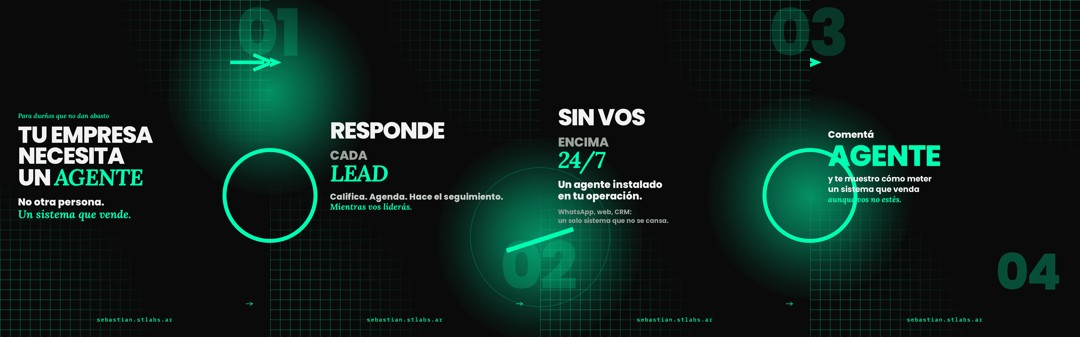
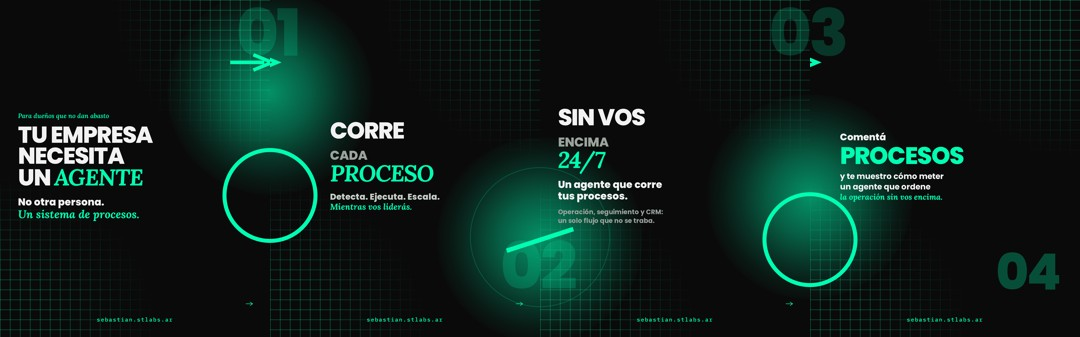
Sync PNGs: procesos + círculo CTA libre

diff --git a/builds/2026-08-16-frases-continuidad/carrusel-standalone.html b/builds/2026-08-16-frases-continuidad/carrusel-standalone.html
@@ -75,6 +75,10 @@ html, body { background:#000; }
 }
 .geo-circle.geo-out { right:-190px; top:58%; transform:translateY(-50%); }
 .geo-circle.geo-in  { left:-190px; top:58%; transform:translateY(-50%); }
+/* Círculo bajo en costura 03↔04: no tapa el CTA */
+.geo-circle.geo-lo {
+  top:auto; bottom:200px; transform:none;
+}
 
 .geo-ring {
   width:560px; height:560px; border-radius:50%;
@@ -103,7 +107,7 @@ html, body { background:#000; }
   display:flex; flex-direction:column; justify-content:center;
 }
 .mid-r { align-items:flex-start; padding-left:168px; }
-.mid-cta { justify-content:center; }
+.mid-cta { justify-content:center; padding-left:48px; }
 
 .kicker {
   font-family:'Lora', Georgia, serif; font-style:italic; font-weight:600;
@@ -140,7 +144,7 @@ html, body { background:#000; }
 }
 .cta-kw {
   font-family:'Poppins', sans-serif; font-weight:800;
-  font-size:118px; line-height:.9; letter-spacing:-.03em;
+  font-size:96px; line-height:.9; letter-spacing:-.03em;
   color:#00FFB2; margin:4px 0 18px;
 }
 .cta-mid {
@@ -148,7 +152,7 @@ html, body { background:#000; }
   font-size:32px; line-height:1.3; color:#F2F2F2; max-width:720px;
 }
 </style></head>
-<body><div class="sheet"><section class="slide" data-id="01"><div class="tex"></div><div class="stain stain-out stain-hi" aria-hidden="true"></div><div class="seam-num seam-out seam-top" aria-hidden="true">01</div><div class="geo geo-circle geo-out" aria-hidden="true"></div><div class="geo geo-arrow geo-arrow-out" aria-hidden="true"><svg viewBox="0 0 200 80" width="200" height="80"><path d="M8 40 H130 M100 12 L168 40 L100 68" fill="none" stroke="#00FFB2" stroke-width="14" stroke-linecap="square" stroke-linejoin="miter"/></svg></div><div class="mid"><p class="kicker">Para dueños que no dan abasto</p><h1 class="display">TU EMPRESA<br>NECESITA<br>UN <span class="ac">AGENTE</span></h1><p class="punch">No otra persona.<br><span class="ac xl">Un sistema que vende.</span></p></div><div class="firma">sebastian.stlabs.ar</div><div class="nav-arrow" aria-hidden="true"><svg viewBox="0 0 40 24" width="34" height="20"><path d="M2 12 H30 M22 4 L34 12 L22 20" fill="none" stroke="#00FFB2" stroke-width="2.4" stroke-linecap="round" stroke-linejoin="round"/></svg></div></section><section class="slide" data-id="02"><div class="tex"></div><div class="stain stain-in stain-hi" aria-hidden="true"></div><div class="stain stain-out stain-lo" aria-hidden="true"></div><div class="seam-num seam-in seam-top" aria-hidden="true">01</div>
-<div class="seam-num seam-out seam-bot" aria-hidden="true">02</div><div class="geo geo-circle geo-in" aria-hidden="true"></div><div class="geo geo-arrow geo-arrow-in" aria-hidden="true"><svg viewBox="0 0 200 80" width="200" height="80"><path d="M-40 40 H90 M60 12 L128 40 L60 68" fill="none" stroke="#00FFB2" stroke-width="14" stroke-linecap="square" stroke-linejoin="miter"/></svg></div><div class="geo geo-ring geo-out-mid" aria-hidden="true"></div><div class="geo geo-bar geo-bar-out" aria-hidden="true"></div><div class="mid mid-r"><h1 class="display">RESPONDE<br><span class="sm">CADA</span><br><span class="ac">LEAD</span></h1><p class="punch soft">Califica. Agenda. Hace el seguimiento.<br><span class="ac">Mientras vos liderás.</span></p></div><div class="firma">sebastian.stlabs.ar</div><div class="nav-arrow" aria-hidden="true"><svg viewBox="0 0 40 24" width="34" height="20"><path d="M2 12 H30 M22 4 L34 12 L22 20" fill="none" stroke="#00FFB2" stroke-width="2.4" stroke-linecap="round" stroke-linejoin="round"/></svg></div></section><section class="slide" data-id="03"><div class="tex"></div><div class="stain stain-in stain-lo" aria-hidden="true"></div><div class="stain stain-out stain-mid" aria-hidden="true"></div><div class="seam-num seam-in seam-bot" aria-hidden="true">02</div>
-<div class="seam-num seam-out seam-top" aria-hidden="true">03</div><div class="geo geo-ring geo-in-mid" aria-hidden="true"></div><div class="geo geo-bar geo-bar-in" aria-hidden="true"></div><div class="geo geo-circle geo-out" aria-hidden="true"></div><div class="mid"><h1 class="display">SIN VOS<br><span class="sm">ENCIMA</span><br><span class="ac">24/7</span></h1><p class="punch">Un agente instalado<br>en tu operación.</p><p class="sub">WhatsApp, web, CRM:<br>un solo sistema que no se cansa.</p></div><div class="firma">sebastian.stlabs.ar</div><div class="nav-arrow" aria-hidden="true"><svg viewBox="0 0 40 24" width="34" height="20"><path d="M2 12 H30 M22 4 L34 12 L22 20" fill="none" stroke="#00FFB2" stroke-width="2.4" stroke-linecap="round" stroke-linejoin="round"/></svg></div></section><section class="slide" data-id="04"><div class="tex"></div><div class="stain stain-in stain-mid" aria-hidden="true"></div><div class="seam-num seam-in seam-top" aria-hidden="true">03</div>
-<div class="seam-num seam-solo seam-bot" aria-hidden="true">04</div><div class="geo geo-circle geo-in" aria-hidden="true"></div><div class="geo geo-arrow geo-arrow-in" aria-hidden="true"><svg viewBox="0 0 200 80" width="200" height="80"><path d="M-40 40 H90 M60 12 L128 40 L60 68" fill="none" stroke="#00FFB2" stroke-width="14" stroke-linecap="square" stroke-linejoin="miter"/></svg></div><div class="mid mid-cta"><p class="cta-pre">Comentá</p><h1 class="cta-kw">AGENTE</h1><p class="cta-mid">y te muestro cómo meter<br>un sistema que venda<br><span class="ac">aunque vos no estés.</span></p></div><div class="firma">sebastian.stlabs.ar</div></section></div></body></html>
+<body><div class="sheet"><section class="slide" data-id="01"><div class="tex"></div><div class="stain stain-out stain-hi" aria-hidden="true"></div><div class="seam-num seam-out seam-top" aria-hidden="true">01</div><div class="geo geo-circle geo-out" aria-hidden="true"></div><div class="geo geo-arrow geo-arrow-out" aria-hidden="true"><svg viewBox="0 0 200 80" width="200" height="80"><path d="M8 40 H130 M100 12 L168 40 L100 68" fill="none" stroke="#00FFB2" stroke-width="14" stroke-linecap="square" stroke-linejoin="miter"/></svg></div><div class="mid"><p class="kicker">Para dueños que no dan abasto</p><h1 class="display">TU EMPRESA<br>NECESITA<br>UN <span class="ac">AGENTE</span></h1><p class="punch">No otra persona.<br><span class="ac xl">Un sistema de procesos.</span></p></div><div class="firma">sebastian.stlabs.ar</div><div class="nav-arrow" aria-hidden="true"><svg viewBox="0 0 40 24" width="34" height="20"><path d="M2 12 H30 M22 4 L34 12 L22 20" fill="none" stroke="#00FFB2" stroke-width="2.4" stroke-linecap="round" stroke-linejoin="round"/></svg></div></section><section class="slide" data-id="02"><div class="tex"></div><div class="stain stain-in stain-hi" aria-hidden="true"></div><div class="stain stain-out stain-lo" aria-hidden="true"></div><div class="seam-num seam-in seam-top" aria-hidden="true">01</div>
+<div class="seam-num seam-out seam-bot" aria-hidden="true">02</div><div class="geo geo-circle geo-in" aria-hidden="true"></div><div class="geo geo-arrow geo-arrow-in" aria-hidden="true"><svg viewBox="0 0 200 80" width="200" height="80"><path d="M-40 40 H90 M60 12 L128 40 L60 68" fill="none" stroke="#00FFB2" stroke-width="14" stroke-linecap="square" stroke-linejoin="miter"/></svg></div><div class="geo geo-ring geo-out-mid" aria-hidden="true"></div><div class="geo geo-bar geo-bar-out" aria-hidden="true"></div><div class="mid mid-r"><h1 class="display">CORRE<br><span class="sm">CADA</span><br><span class="ac">PROCESO</span></h1><p class="punch soft">Detecta. Ejecuta. Escala.<br><span class="ac">Mientras vos liderás.</span></p></div><div class="firma">sebastian.stlabs.ar</div><div class="nav-arrow" aria-hidden="true"><svg viewBox="0 0 40 24" width="34" height="20"><path d="M2 12 H30 M22 4 L34 12 L22 20" fill="none" stroke="#00FFB2" stroke-width="2.4" stroke-linecap="round" stroke-linejoin="round"/></svg></div></section><section class="slide" data-id="03"><div class="tex"></div><div class="stain stain-in stain-lo" aria-hidden="true"></div><div class="stain stain-out stain-mid" aria-hidden="true"></div><div class="seam-num seam-in seam-bot" aria-hidden="true">02</div>
+<div class="seam-num seam-out seam-top" aria-hidden="true">03</div><div class="geo geo-ring geo-in-mid" aria-hidden="true"></div><div class="geo geo-bar geo-bar-in" aria-hidden="true"></div><div class="geo geo-circle geo-out geo-lo" aria-hidden="true"></div><div class="mid"><h1 class="display">SIN VOS<br><span class="sm">ENCIMA</span><br><span class="ac">24/7</span></h1><p class="punch">Un agente que corre<br>tus procesos.</p><p class="sub">Operación, seguimiento y CRM:<br>un solo flujo que no se traba.</p></div><div class="firma">sebastian.stlabs.ar</div><div class="nav-arrow" aria-hidden="true"><svg viewBox="0 0 40 24" width="34" height="20"><path d="M2 12 H30 M22 4 L34 12 L22 20" fill="none" stroke="#00FFB2" stroke-width="2.4" stroke-linecap="round" stroke-linejoin="round"/></svg></div></section><section class="slide" data-id="04"><div class="tex"></div><div class="stain stain-in stain-mid" aria-hidden="true"></div><div class="seam-num seam-in seam-top" aria-hidden="true">03</div>
+<div class="seam-num seam-solo seam-bot" aria-hidden="true">04</div><div class="geo geo-circle geo-in geo-lo" aria-hidden="true"></div><div class="geo geo-arrow geo-arrow-in" aria-hidden="true"><svg viewBox="0 0 200 80" width="200" height="80"><path d="M-40 40 H90 M60 12 L128 40 L60 68" fill="none" stroke="#00FFB2" stroke-width="14" stroke-linecap="square" stroke-linejoin="miter"/></svg></div><div class="mid mid-cta"><p class="cta-pre">Comentá</p><h1 class="cta-kw">PROCESOS</h1><p class="cta-mid">y te muestro cómo meter<br>un agente que ordene<br><span class="ac">la operación sin vos encima.</span></p></div><div class="firma">sebastian.stlabs.ar</div></section></div></body></html>

diff --git a/resultados/2026-08-16-frases-continuidad/carrusel-standalone.html b/resultados/2026-08-16-frases-continuidad/carrusel-standalone.html
@@ -75,6 +75,10 @@ html, body { background:#000; }
 }
 .geo-circle.geo-out { right:-190px; top:58%; transform:translateY(-50%); }
 .geo-circle.geo-in  { left:-190px; top:58%; transform:translateY(-50%); }
+/* Círculo bajo en costura 03↔04: no tapa el CTA */
+.geo-circle.geo-lo {
+  top:auto; bottom:200px; transform:none;
+}
 
 .geo-ring {
   width:560px; height:560px; border-radius:50%;
@@ -103,7 +107,7 @@ html, body { background:#000; }
   display:flex; flex-direction:column; justify-content:center;
 }
 .mid-r { align-items:flex-start; padding-left:168px; }
-.mid-cta { justify-content:center; }
+.mid-cta { justify-content:center; padding-left:48px; }
 
 .kicker {
   font-family:'Lora', Georgia, serif; font-style:italic; font-weight:600;
@@ -140,7 +144,7 @@ html, body { background:#000; }
 }
 .cta-kw {
   font-family:'Poppins', sans-serif; font-weight:800;
-  font-size:118px; line-height:.9; letter-spacing:-.03em;
+  font-size:96px; line-height:.9; letter-spacing:-.03em;
   color:#00FFB2; margin:4px 0 18px;
 }
 .cta-mid {
@@ -148,7 +152,7 @@ html, body { background:#000; }
   font-size:32px; line-height:1.3; color:#F2F2F2; max-width:720px;
 }
 </style></head>
-<body><div class="sheet"><section class="slide" data-id="01"><div class="tex"></div><div class="stain stain-out stain-hi" aria-hidden="true"></div><div class="seam-num seam-out seam-top" aria-hidden="true">01</div><div class="geo geo-circle geo-out" aria-hidden="true"></div><div class="geo geo-arrow geo-arrow-out" aria-hidden="true"><svg viewBox="0 0 200 80" width="200" height="80"><path d="M8 40 H130 M100 12 L168 40 L100 68" fill="none" stroke="#00FFB2" stroke-width="14" stroke-linecap="square" stroke-linejoin="miter"/></svg></div><div class="mid"><p class="kicker">Para dueños que no dan abasto</p><h1 class="display">TU EMPRESA<br>NECESITA<br>UN <span class="ac">AGENTE</span></h1><p class="punch">No otra persona.<br><span class="ac xl">Un sistema que vende.</span></p></div><div class="firma">sebastian.stlabs.ar</div><div class="nav-arrow" aria-hidden="true"><svg viewBox="0 0 40 24" width="34" height="20"><path d="M2 12 H30 M22 4 L34 12 L22 20" fill="none" stroke="#00FFB2" stroke-width="2.4" stroke-linecap="round" stroke-linejoin="round"/></svg></div></section><section class="slide" data-id="02"><div class="tex"></div><div class="stain stain-in stain-hi" aria-hidden="true"></div><div class="stain stain-out stain-lo" aria-hidden="true"></div><div class="seam-num seam-in seam-top" aria-hidden="true">01</div>
-<div class="seam-num seam-out seam-bot" aria-hidden="true">02</div><div class="geo geo-circle geo-in" aria-hidden="true"></div><div class="geo geo-arrow geo-arrow-in" aria-hidden="true"><svg viewBox="0 0 200 80" width="200" height="80"><path d="M-40 40 H90 M60 12 L128 40 L60 68" fill="none" stroke="#00FFB2" stroke-width="14" stroke-linecap="square" stroke-linejoin="miter"/></svg></div><div class="geo geo-ring geo-out-mid" aria-hidden="true"></div><div class="geo geo-bar geo-bar-out" aria-hidden="true"></div><div class="mid mid-r"><h1 class="display">RESPONDE<br><span class="sm">CADA</span><br><span class="ac">LEAD</span></h1><p class="punch soft">Califica. Agenda. Hace el seguimiento.<br><span class="ac">Mientras vos liderás.</span></p></div><div class="firma">sebastian.stlabs.ar</div><div class="nav-arrow" aria-hidden="true"><svg viewBox="0 0 40 24" width="34" height="20"><path d="M2 12 H30 M22 4 L34 12 L22 20" fill="none" stroke="#00FFB2" stroke-width="2.4" stroke-linecap="round" stroke-linejoin="round"/></svg></div></section><section class="slide" data-id="03"><div class="tex"></div><div class="stain stain-in stain-lo" aria-hidden="true"></div><div class="stain stain-out stain-mid" aria-hidden="true"></div><div class="seam-num seam-in seam-bot" aria-hidden="true">02</div>
-<div class="seam-num seam-out seam-top" aria-hidden="true">03</div><div class="geo geo-ring geo-in-mid" aria-hidden="true"></div><div class="geo geo-bar geo-bar-in" aria-hidden="true"></div><div class="geo geo-circle geo-out" aria-hidden="true"></div><div class="mid"><h1 class="display">SIN VOS<br><span class="sm">ENCIMA</span><br><span class="ac">24/7</span></h1><p class="punch">Un agente instalado<br>en tu operación.</p><p class="sub">WhatsApp, web, CRM:<br>un solo sistema que no se cansa.</p></div><div class="firma">sebastian.stlabs.ar</div><div class="nav-arrow" aria-hidden="true"><svg viewBox="0 0 40 24" width="34" height="20"><path d="M2 12 H30 M22 4 L34 12 L22 20" fill="none" stroke="#00FFB2" stroke-width="2.4" stroke-linecap="round" stroke-linejoin="round"/></svg></div></section><section class="slide" data-id="04"><div class="tex"></div><div class="stain stain-in stain-mid" aria-hidden="true"></div><div class="seam-num seam-in seam-top" aria-hidden="true">03</div>
-<div class="seam-num seam-solo seam-bot" aria-hidden="true">04</div><div class="geo geo-circle geo-in" aria-hidden="true"></div><div class="geo geo-arrow geo-arrow-in" aria-hidden="true"><svg viewBox="0 0 200 80" width="200" height="80"><path d="M-40 40 H90 M60 12 L128 40 L60 68" fill="none" stroke="#00FFB2" stroke-width="14" stroke-linecap="square" stroke-linejoin="miter"/></svg></div><div class="mid mid-cta"><p class="cta-pre">Comentá</p><h1 class="cta-kw">AGENTE</h1><p class="cta-mid">y te muestro cómo meter<br>un sistema que venda<br><span class="ac">aunque vos no estés.</span></p></div><div class="firma">sebastian.stlabs.ar</div></section></div></body></html>
+<body><div class="sheet"><section class="slide" data-id="01"><div class="tex"></div><div class="stain stain-out stain-hi" aria-hidden="true"></div><div class="seam-num seam-out seam-top" aria-hidden="true">01</div><div class="geo geo-circle geo-out" aria-hidden="true"></div><div class="geo geo-arrow geo-arrow-out" aria-hidden="true"><svg viewBox="0 0 200 80" width="200" height="80"><path d="M8 40 H130 M100 12 L168 40 L100 68" fill="none" stroke="#00FFB2" stroke-width="14" stroke-linecap="square" stroke-linejoin="miter"/></svg></div><div class="mid"><p class="kicker">Para dueños que no dan abasto</p><h1 class="display">TU EMPRESA<br>NECESITA<br>UN <span class="ac">AGENTE</span></h1><p class="punch">No otra persona.<br><span class="ac xl">Un sistema de procesos.</span></p></div><div class="firma">sebastian.stlabs.ar</div><div class="nav-arrow" aria-hidden="true"><svg viewBox="0 0 40 24" width="34" height="20"><path d="M2 12 H30 M22 4 L34 12 L22 20" fill="none" stroke="#00FFB2" stroke-width="2.4" stroke-linecap="round" stroke-linejoin="round"/></svg></div></section><section class="slide" data-id="02"><div class="tex"></div><div class="stain stain-in stain-hi" aria-hidden="true"></div><div class="stain stain-out stain-lo" aria-hidden="true"></div><div class="seam-num seam-in seam-top" aria-hidden="true">01</div>
+<div class="seam-num seam-out seam-bot" aria-hidden="true">02</div><div class="geo geo-circle geo-in" aria-hidden="true"></div><div class="geo geo-arrow geo-arrow-in" aria-hidden="true"><svg viewBox="0 0 200 80" width="200" height="80"><path d="M-40 40 H90 M60 12 L128 40 L60 68" fill="none" stroke="#00FFB2" stroke-width="14" stroke-linecap="square" stroke-linejoin="miter"/></svg></div><div class="geo geo-ring geo-out-mid" aria-hidden="true"></div><div class="geo geo-bar geo-bar-out" aria-hidden="true"></div><div class="mid mid-r"><h1 class="display">CORRE<br><span class="sm">CADA</span><br><span class="ac">PROCESO</span></h1><p class="punch soft">Detecta. Ejecuta. Escala.<br><span class="ac">Mientras vos liderás.</span></p></div><div class="firma">sebastian.stlabs.ar</div><div class="nav-arrow" aria-hidden="true"><svg viewBox="0 0 40 24" width="34" height="20"><path d="M2 12 H30 M22 4 L34 12 L22 20" fill="none" stroke="#00FFB2" stroke-width="2.4" stroke-linecap="round" stroke-linejoin="round"/></svg></div></section><section class="slide" data-id="03"><div class="tex"></div><div class="stain stain-in stain-lo" aria-hidden="true"></div><div class="stain stain-out stain-mid" aria-hidden="true"></div><div class="seam-num seam-in seam-bot" aria-hidden="true">02</div>
+<div class="seam-num seam-out seam-top" aria-hidden="true">03</div><div class="geo geo-ring geo-in-mid" aria-hidden="true"></div><div class="geo geo-bar geo-bar-in" aria-hidden="true"></div><div class="geo geo-circle geo-out geo-lo" aria-hidden="true"></div><div class="mid"><h1 class="display">SIN VOS<br><span class="sm">ENCIMA</span><br><span class="ac">24/7</span></h1><p class="punch">Un agente que corre<br>tus procesos.</p><p class="sub">Operación, seguimiento y CRM:<br>un solo flujo que no se traba.</p></div><div class="firma">sebastian.stlabs.ar</div><div class="nav-arrow" aria-hidden="true"><svg viewBox="0 0 40 24" width="34" height="20"><path d="M2 12 H30 M22 4 L34 12 L22 20" fill="none" stroke="#00FFB2" stroke-width="2.4" stroke-linecap="round" stroke-linejoin="round"/></svg></div></section><section class="slide" data-id="04"><div class="tex"></div><div class="stain stain-in stain-mid" aria-hidden="true"></div><div class="seam-num seam-in seam-top" aria-hidden="true">03</div>
+<div class="seam-num seam-solo seam-bot" aria-hidden="true">04</div><div class="geo geo-circle geo-in geo-lo" aria-hidden="true"></div><div class="geo geo-arrow geo-arrow-in" aria-hidden="true"><svg viewBox="0 0 200 80" width="200" height="80"><path d="M-40 40 H90 M60 12 L128 40 L60 68" fill="none" stroke="#00FFB2" stroke-width="14" stroke-linecap="square" stroke-linejoin="miter"/></svg></div><div class="mid mid-cta"><p class="cta-pre">Comentá</p><h1 class="cta-kw">PROCESOS</h1><p class="cta-mid">y te muestro cómo meter<br>un agente que ordene<br><span class="ac">la operación sin vos encima.</span></p></div><div class="firma">sebastian.stlabs.ar</div></section></div></body></html>

diff --git a/resultados/2026-08-16-frases-continuidad/carrusel.html b/resultados/2026-08-16-frases-continuidad/carrusel.html
@@ -75,6 +75,10 @@ html, body { background:#000; }
 }
 .geo-circle.geo-out { right:-190px; top:58%; transform:translateY(-50%); }
 .geo-circle.geo-in  { left:-190px; top:58%; transform:translateY(-50%); }
+/* Círculo bajo en costura 03↔04: no tapa el CTA */
+.geo-circle.geo-lo {
+  top:auto; bottom:200px; transform:none;
+}
 
 .geo-ring {
   width:560px; height:560px; border-radius:50%;
@@ -103,7 +107,7 @@ html, body { background:#000; }
   display:flex; flex-direction:column; justify-content:center;
 }
 .mid-r { align-items:flex-start; padding-left:168px; }
-.mid-cta { justify-content:center; }
+.mid-cta { justify-content:center; padding-left:48px; }
 
 .kicker {
   font-family:'Lora', Georgia, serif; font-style:italic; font-weight:600;
@@ -140,7 +144,7 @@ html, body { background:#000; }
 }
 .cta-kw {
   font-family:'Poppins', sans-serif; font-weight:800;
-  font-size:118px; line-height:.9; letter-spacing:-.03em;
+  font-size:96px; line-height:.9; letter-spacing:-.03em;
   color:#00FFB2; margin:4px 0 18px;
 }
 .cta-mid {
@@ -148,7 +152,7 @@ html, body { background:#000; }
   font-size:32px; line-height:1.3; color:#F2F2F2; max-width:720px;
 }
 </style></head>
-<body><div class="sheet"><section class="slide" data-id="01"><div class="tex"></div><div class="stain stain-out stain-hi" aria-hidden="true"></div><div class="seam-num seam-out seam-top" aria-hidden="true">01</div><div class="geo geo-circle geo-out" aria-hidden="true"></div><div class="geo geo-arrow geo-arrow-out" aria-hidden="true"><svg viewBox="0 0 200 80" width="200" height="80"><path d="M8 40 H130 M100 12 L168 40 L100 68" fill="none" stroke="#00FFB2" stroke-width="14" stroke-linecap="square" stroke-linejoin="miter"/></svg></div><div class="mid"><p class="kicker">Para dueños que no dan abasto</p><h1 class="display">TU EMPRESA<br>NECESITA<br>UN <span class="ac">AGENTE</span></h1><p class="punch">No otra persona.<br><span class="ac xl">Un sistema que vende.</span></p></div><div class="firma">sebastian.stlabs.ar</div><div class="nav-arrow" aria-hidden="true"><svg viewBox="0 0 40 24" width="34" height="20"><path d="M2 12 H30 M22 4 L34 12 L22 20" fill="none" stroke="#00FFB2" stroke-width="2.4" stroke-linecap="round" stroke-linejoin="round"/></svg></div></section><section class="slide" data-id="02"><div class="tex"></div><div class="stain stain-in stain-hi" aria-hidden="true"></div><div class="stain stain-out stain-lo" aria-hidden="true"></div><div class="seam-num seam-in seam-top" aria-hidden="true">01</div>
-<div class="seam-num seam-out seam-bot" aria-hidden="true">02</div><div class="geo geo-circle geo-in" aria-hidden="true"></div><div class="geo geo-arrow geo-arrow-in" aria-hidden="true"><svg viewBox="0 0 200 80" width="200" height="80"><path d="M-40 40 H90 M60 12 L128 40 L60 68" fill="none" stroke="#00FFB2" stroke-width="14" stroke-linecap="square" stroke-linejoin="miter"/></svg></div><div class="geo geo-ring geo-out-mid" aria-hidden="true"></div><div class="geo geo-bar geo-bar-out" aria-hidden="true"></div><div class="mid mid-r"><h1 class="display">RESPONDE<br><span class="sm">CADA</span><br><span class="ac">LEAD</span></h1><p class="punch soft">Califica. Agenda. Hace el seguimiento.<br><span class="ac">Mientras vos liderás.</span></p></div><div class="firma">sebastian.stlabs.ar</div><div class="nav-arrow" aria-hidden="true"><svg viewBox="0 0 40 24" width="34" height="20"><path d="M2 12 H30 M22 4 L34 12 L22 20" fill="none" stroke="#00FFB2" stroke-width="2.4" stroke-linecap="round" stroke-linejoin="round"/></svg></div></section><section class="slide" data-id="03"><div class="tex"></div><div class="stain stain-in stain-lo" aria-hidden="true"></div><div class="stain stain-out stain-mid" aria-hidden="true"></div><div class="seam-num seam-in seam-bot" aria-hidden="true">02</div>
-<div class="seam-num seam-out seam-top" aria-hidden="true">03</div><div class="geo geo-ring geo-in-mid" aria-hidden="true"></div><div class="geo geo-bar geo-bar-in" aria-hidden="true"></div><div class="geo geo-circle geo-out" aria-hidden="true"></div><div class="mid"><h1 class="display">SIN VOS<br><span class="sm">ENCIMA</span><br><span class="ac">24/7</span></h1><p class="punch">Un agente instalado<br>en tu operación.</p><p class="sub">WhatsApp, web, CRM:<br>un solo sistema que no se cansa.</p></div><div class="firma">sebastian.stlabs.ar</div><div class="nav-arrow" aria-hidden="true"><svg viewBox="0 0 40 24" width="34" height="20"><path d="M2 12 H30 M22 4 L34 12 L22 20" fill="none" stroke="#00FFB2" stroke-width="2.4" stroke-linecap="round" stroke-linejoin="round"/></svg></div></section><section class="slide" data-id="04"><div class="tex"></div><div class="stain stain-in stain-mid" aria-hidden="true"></div><div class="seam-num seam-in seam-top" aria-hidden="true">03</div>
-<div class="seam-num seam-solo seam-bot" aria-hidden="true">04</div><div class="geo geo-circle geo-in" aria-hidden="true"></div><div class="geo geo-arrow geo-arrow-in" aria-hidden="true"><svg viewBox="0 0 200 80" width="200" height="80"><path d="M-40 40 H90 M60 12 L128 40 L60 68" fill="none" stroke="#00FFB2" stroke-width="14" stroke-linecap="square" stroke-linejoin="miter"/></svg></div><div class="mid mid-cta"><p class="cta-pre">Comentá</p><h1 class="cta-kw">AGENTE</h1><p class="cta-mid">y te muestro cómo meter<br>un sistema que venda<br><span class="ac">aunque vos no estés.</span></p></div><div class="firma">sebastian.stlabs.ar</div></section></div></body></html>
+<body><div class="sheet"><section class="slide" data-id="01"><div class="tex"></div><div class="stain stain-out stain-hi" aria-hidden="true"></div><div class="seam-num seam-out seam-top" aria-hidden="true">01</div><div class="geo geo-circle geo-out" aria-hidden="true"></div><div class="geo geo-arrow geo-arrow-out" aria-hidden="true"><svg viewBox="0 0 200 80" width="200" height="80"><path d="M8 40 H130 M100 12 L168 40 L100 68" fill="none" stroke="#00FFB2" stroke-width="14" stroke-linecap="square" stroke-linejoin="miter"/></svg></div><div class="mid"><p class="kicker">Para dueños que no dan abasto</p><h1 class="display">TU EMPRESA<br>NECESITA<br>UN <span class="ac">AGENTE</span></h1><p class="punch">No otra persona.<br><span class="ac xl">Un sistema de procesos.</span></p></div><div class="firma">sebastian.stlabs.ar</div><div class="nav-arrow" aria-hidden="true"><svg viewBox="0 0 40 24" width="34" height="20"><path d="M2 12 H30 M22 4 L34 12 L22 20" fill="none" stroke="#00FFB2" stroke-width="2.4" stroke-linecap="round" stroke-linejoin="round"/></svg></div></section><section class="slide" data-id="02"><div class="tex"></div><div class="stain stain-in stain-hi" aria-hidden="true"></div><div class="stain stain-out stain-lo" aria-hidden="true"></div><div class="seam-num seam-in seam-top" aria-hidden="true">01</div>
+<div class="seam-num seam-out seam-bot" aria-hidden="true">02</div><div class="geo geo-circle geo-in" aria-hidden="true"></div><div class="geo geo-arrow geo-arrow-in" aria-hidden="true"><svg viewBox="0 0 200 80" width="200" height="80"><path d="M-40 40 H90 M60 12 L128 40 L60 68" fill="none" stroke="#00FFB2" stroke-width="14" stroke-linecap="square" stroke-linejoin="miter"/></svg></div><div class="geo geo-ring geo-out-mid" aria-hidden="true"></div><div class="geo geo-bar geo-bar-out" aria-hidden="true"></div><div class="mid mid-r"><h1 class="display">CORRE<br><span class="sm">CADA</span><br><span class="ac">PROCESO</span></h1><p class="punch soft">Detecta. Ejecuta. Escala.<br><span class="ac">Mientras vos liderás.</span></p></div><div class="firma">sebastian.stlabs.ar</div><div class="nav-arrow" aria-hidden="true"><svg viewBox="0 0 40 24" width="34" height="20"><path d="M2 12 H30 M22 4 L34 12 L22 20" fill="none" stroke="#00FFB2" stroke-width="2.4" stroke-linecap="round" stroke-linejoin="round"/></svg></div></section><section class="slide" data-id="03"><div class="tex"></div><div class="stain stain-in stain-lo" aria-hidden="true"></div><div class="stain stain-out stain-mid" aria-hidden="true"></div><div class="seam-num seam-in seam-bot" aria-hidden="true">02</div>
+<div class="seam-num seam-out seam-top" aria-hidden="true">03</div><div class="geo geo-ring geo-in-mid" aria-hidden="true"></div><div class="geo geo-bar geo-bar-in" aria-hidden="true"></div><div class="geo geo-circle geo-out geo-lo" aria-hidden="true"></div><div class="mid"><h1 class="display">SIN VOS<br><span class="sm">ENCIMA</span><br><span class="ac">24/7</span></h1><p class="punch">Un agente que corre<br>tus procesos.</p><p class="sub">Operación, seguimiento y CRM:<br>un solo flujo que no se traba.</p></div><div class="firma">sebastian.stlabs.ar</div><div class="nav-arrow" aria-hidden="true"><svg viewBox="0 0 40 24" width="34" height="20"><path d="M2 12 H30 M22 4 L34 12 L22 20" fill="none" stroke="#00FFB2" stroke-width="2.4" stroke-linecap="round" stroke-linejoin="round"/></svg></div></section><section class="slide" data-id="04"><div class="tex"></div><div class="stain stain-in stain-mid" aria-hidden="true"></div><div class="seam-num seam-in seam-top" aria-hidden="true">03</div>
+<div class="seam-num seam-solo seam-bot" aria-hidden="true">04</div><div class="geo geo-circle geo-in geo-lo" aria-hidden="true"></div><div class="geo geo-arrow geo-arrow-in" aria-hidden="true"><svg viewBox="0 0 200 80" width="200" height="80"><path d="M-40 40 H90 M60 12 L128 40 L60 68" fill="none" stroke="#00FFB2" stroke-width="14" stroke-linecap="square" stroke-linejoin="miter"/></svg></div><div class="mid mid-cta"><p class="cta-pre">Comentá</p><h1 class="cta-kw">PROCESOS</h1><p class="cta-mid">y te muestro cómo meter<br>un agente que ordene<br><span class="ac">la operación sin vos encima.</span></p></div><div class="firma">sebastian.stlabs.ar</div></section></div></body></html>
